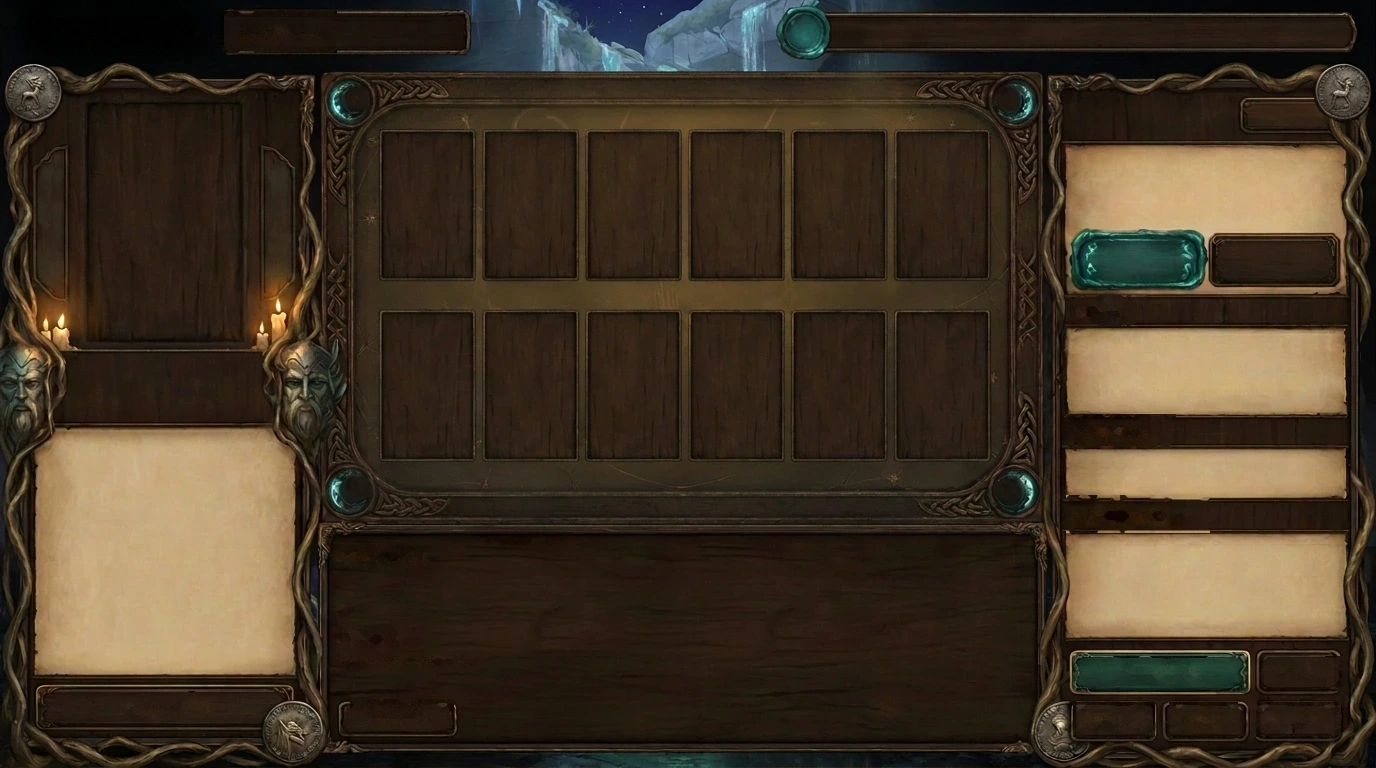
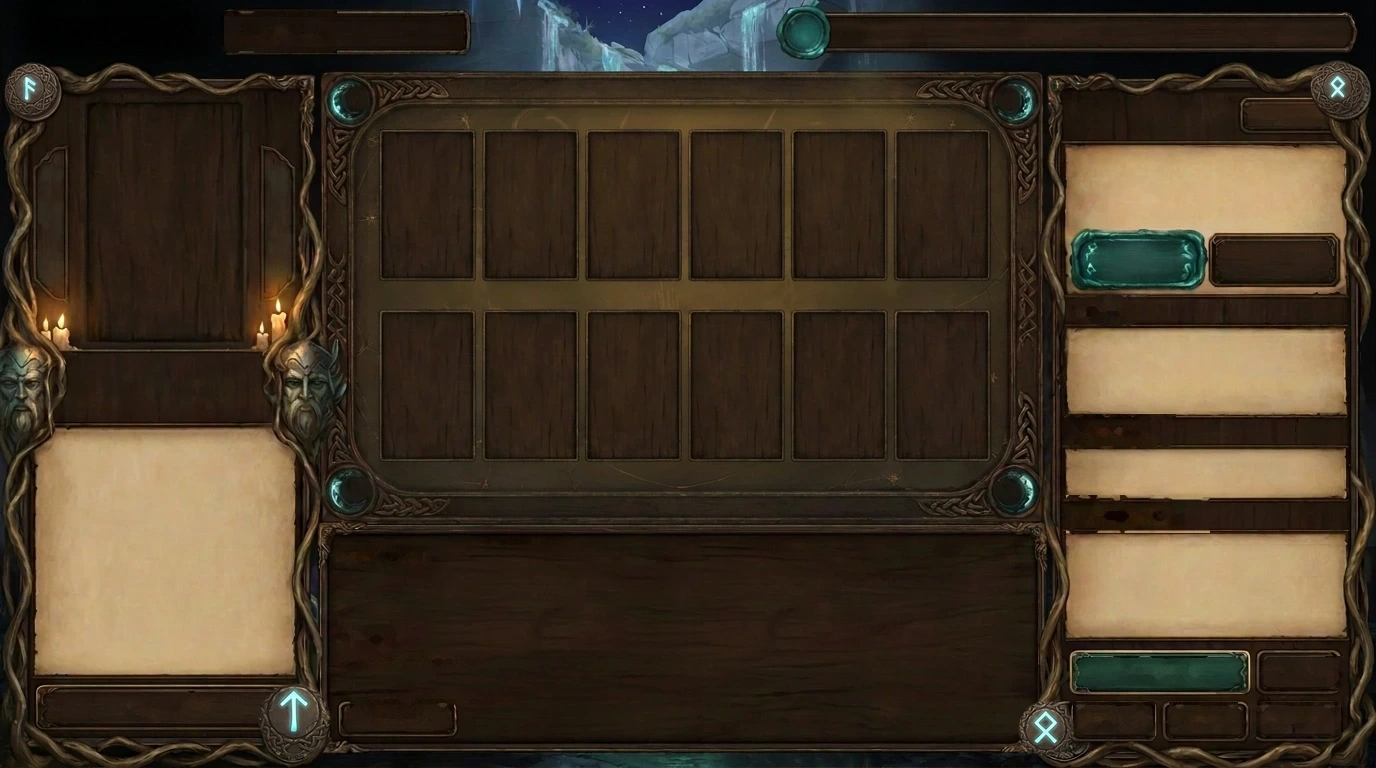
FABLE-096: Settings laid out on the World-Tree night-sky painting (when SettingsScene_tree.webp is installed; the v8 painting otherwise); Deck Forge's Roman coins are now the rune medallions of the Settings painting
Claude-Session: https://claude.ai/code/session_01VNwHMtECA3drs76DyK6jbu

diff --git a/client/scripts/settings/SettingsScene.cs b/client/scripts/settings/SettingsScene.cs
@@ -92,6 +92,7 @@ public partial class SettingsScene : Control
     private void BuildUI()
     {
         var vp = GetViewportRect().Size;
+        if (ScreenSkin.Variant("SettingsScene") == "tree") { BuildTreeUI(vp); return; }
         if (ScreenSkin.Faithful("SettingsScene")) { BuildArtUI(vp); return; }
 
         var bg = new ColorRect { Color = Color.FromHtml("#1A1714"), MouseFilter = MouseFilterEnum.Ignore };
@@ -543,6 +544,115 @@ public partial class SettingsScene : Control
 
         b.Pressed += () => onPress();
         return l;
+    }
+
+    /// <summary>FABLE-096: Settings on the World-Tree night-sky painting Trikzos picked (093): every row on its painted strip.</summary>
+    private void BuildTreeUI(Vector2 vp)
+    {
+        _art = true;
+        var bg = new ColorRect { Color = Color.FromHtml("#1A1714"), MouseFilter = MouseFilterEnum.Ignore };
+        bg.SetAnchorsPreset(LayoutPreset.FullRect);
+        AddChild(bg);
+
+        Label Word(string text, float x0, float y0, float x1, float y1, int px, Color col, HorizontalAlignment align = HorizontalAlignment.Center)
+        {
+            var a = A(vp, x0, y0); var b = A(vp, x1, y1);
+            var l = new Label { Text = text, HorizontalAlignment = align, VerticalAlignment = VerticalAlignment.Center, Position = a, Size = b - a, MouseFilter = MouseFilterEnum.Ignore };
+            l.AddThemeFontOverride("font", ThemeTokens.GetHeaderFont(px)); l.AddThemeFontSizeOverride("font_size", px);
+            l.AddThemeColorOverride("font_color", col);
+            l.AddThemeConstantOverride("outline_size", 5); l.AddThemeColorOverride("font_outline_color", new Color(0.03f, 0.02f, 0.01f, 0.85f));
+            l.SetMeta("skinned", true);
+            AddChild(l);
+            return l;
+        }
+        Word("SETTINGS", 0.407f, 0.023f, 0.592f, 0.091f, 52, Gold);
+        Word("SOUND", 0.186f, 0.212f, 0.488f, 0.252f, 28, GoldBright, HorizontalAlignment.Left);
+        Word("GAMEPLAY", 0.522f, 0.212f, 0.808f, 0.252f, 28, GoldBright, HorizontalAlignment.Left);
+        Word("HELP & STORY", 0.522f, 0.455f, 0.808f, 0.497f, 28, GoldBright, HorizontalAlignment.Left);
+
+        // the sound block: four sliders on the parchment, the mute switch on the wood below, the title music on its strip
+        float[] sliderY = { 0.2956f, 0.3737f, 0.4518f, 0.5300f };
+        _masterSlider = SliderRow(Slot(vp, 0.188f, sliderY[0] - 0.036f, 0.480f, sliderY[0] + 0.036f), "Master");
+        _musicSlider = SliderRow(Slot(vp, 0.188f, sliderY[1] - 0.036f, 0.480f, sliderY[1] + 0.036f), "Music");
+        _sfxSlider = SliderRow(Slot(vp, 0.188f, sliderY[2] - 0.036f, 0.480f, sliderY[2] + 0.036f), "Effects");
+        _ambientSlider = SliderRow(Slot(vp, 0.188f, sliderY[3] - 0.036f, 0.480f, sliderY[3] + 0.036f), "Ambience");
+        _muteSwitch = SwitchRow(Slot(vp, 0.184f, 0.582f, 0.486f, 0.648f), "Mute all sound", null, OnMuteToggled);
+        Label? musicLabel = null;
+        musicLabel = ActionRow(Slot(vp, 0.182f, 0.725f, 0.483f, 0.779f), "Title music:  " + AudioManager.TitleTrackName(AudioManager.TitleTrack), false, () =>
+        {
+            Click();
+            var list = AudioManager.TitleTracks;
+            int i = System.Array.FindIndex(list, t => t.Id == AudioManager.TitleTrack);
+            var next = list[(i + 1) % list.Length];
+            AudioManager.TitleTrack = next.Id;
+            musicLabel!.Text = "Title music:  " + next.Name;
+            GetNodeOrNull<AudioManager>("/root/AudioManager")?.CrossfadeMusic(next.Id, 1.0f);
+        });
+
+        _motionSwitch = SwitchRow(Slot(vp, 0.522f, 0.262f, 0.807f, 0.348f), "Reduce motion", "Fewer flashes, shakes and sweeps", on =>
+        {
+            CampaignContext.Settings.ReduceMotion = on;
+            MarkChanged(true);
+        });
+        Label? styleLabel = null;
+        styleLabel = ActionRow(Slot(vp, 0.522f, 0.362f, 0.807f, 0.419f), "Card style:  " + CardContrast.Names[Math.Clamp(CampaignContext.Settings.CardStyle, 0, 3)], false, () =>
+        {
+            Click();
+            CampaignContext.Settings.CardStyle = (CampaignContext.Settings.CardStyle + 1) % 4;
+            if (styleLabel != null) styleLabel.Text = "Card style:  " + CardContrast.Names[CampaignContext.Settings.CardStyle];
+            MarkChanged(true);
+        });
+        (string, Action)[] help =
+        {
+            ("Symbol key — what every sign in a fight means", () => { Click(); if (_dirty) Persist(); LoadScreen.Go(GetTree(), SymbolKeyScene.ScenePath); }),
+            ("Replay the tutorial", OnReplayTutorial), ("Replay the intro", OnReplayIntro),
+            ("Audio credits", ShowCreditsOverlay), ("Save check — is my progress safe?", ShowSaveCheck),
+        };
+        for (int i = 0; i < help.Length; i++)
+        {
+            float y = 0.547f + i * 0.056f;
+            ActionRow(Slot(vp, 0.524f, y - 0.027f, 0.805f, y + 0.027f), help[i].Item1, false, help[i].Item2);
+        }
+        ActionRow(Slot(vp, 0.527f, 0.822f, 0.806f, 0.881f), "Reset all progress", true, ShowResetConfirm);
+
+        var b0 = A(vp, 0.153f, 0.844f); var b1 = A(vp, 0.292f, 0.902f);
+        _backBtn = Plate("◂  Back", false, b1.X - b0.X, b1.Y - b0.Y);
+        _backBtn.Position = b0;
+        _backBtn.Pressed += () =>
+        {
+            Click();
+            if (_dirty) Persist();
+            LoadScreen.Go(GetTree(), "res://scenes/main/Main.tscn");
+        };
+        AddChild(_backBtn);
+        _backBtn.AddThemeFontSizeOverride("font_size", 32);
+        _backBtn.AddThemeColorOverride("font_color", GoldBright);
+        _backBtn.AddThemeColorOverride("font_hover_color", new Color(1f, 0.9f, 0.6f));
+        StyleBoxFlat Wood(Color bgc, Color edge) => new()
+        {
+            BgColor = bgc, BorderColor = edge, BorderWidthLeft = 2, BorderWidthRight = 2, BorderWidthTop = 2, BorderWidthBottom = 2,
+            CornerRadiusTopLeft = 8, CornerRadiusTopRight = 8, CornerRadiusBottomLeft = 8, CornerRadiusBottomRight = 8,
+        };
+        _backBtn.AddThemeStyleboxOverride("normal", Wood(new Color(0, 0, 0, 0), new Color(0, 0, 0, 0)));   // the painted plaque is the button
+        _backBtn.AddThemeStyleboxOverride("hover", Wood(new Color(1f, 0.86f, 0.45f, 0.12f), new Color(0.90f, 0.74f, 0.42f, 0.6f)));
+        _backBtn.AddThemeStyleboxOverride("pressed", Wood(new Color(0, 0, 0, 0.25f), new Color(0, 0, 0, 0)));
+        _backBtn.SetMeta("skinned", true);
+
+        var s0 = A(vp, 0.300f, 0.844f); var s1 = A(vp, 0.488f, 0.902f);
+        _status = new Label { Text = "", HorizontalAlignment = HorizontalAlignment.Center, VerticalAlignment = VerticalAlignment.Center, AutowrapMode = TextServer.AutowrapMode.WordSmart,
+            Position = s0, Size = s1 - s0, MouseFilter = MouseFilterEnum.Ignore };
+        _status.AddThemeFontOverride("font", ThemeTokens.GetBodyFont(22));
+        _status.AddThemeFontSizeOverride("font_size", 22);
+        _status.AddThemeColorOverride("font_color", Cream);
+        AddChild(_status);
+
+        var v0 = A(vp, 0.520f, 0.888f); var v1 = A(vp, 0.806f, 0.915f);
+        var versionLabel = new Label { HorizontalAlignment = HorizontalAlignment.Right, VerticalAlignment = VerticalAlignment.Center, Position = v0, Size = v1 - v0,
+            MouseFilter = MouseFilterEnum.Ignore, Text = $"Runewake {VersionString()}" };
+        versionLabel.AddThemeFontOverride("font", ThemeTokens.GetBodyFont(17));
+        versionLabel.AddThemeFontSizeOverride("font_size", 17);
+        versionLabel.AddThemeColorOverride("font_color", new Color(0.72f, 0.66f, 0.56f));
+        AddChild(versionLabel);
     }
 
     private void StyleSlider(HSlider s)

diff --git a/client/scripts/ScreenSkin.cs b/client/scripts/ScreenSkin.cs
@@ -68,12 +68,17 @@ public partial class ScreenSkin : Node
     }
 
     /// <summary>True when the scene has its approved painting installed.</summary>
-    public static bool Faithful(string key) => Tex(key + "_ui.webp") != null;
+    public static bool Faithful(string key) => FaithfulTex(key) != null;
+
+    /// <summary>FABLE-096: which approved painting a scene has - "tree" (the World-Tree night-sky Settings), "ui", or "" for none.</summary>
+    public static string Variant(string key) => Tex(key + "_tree.webp") != null ? "tree" : Tex(key + "_ui.webp") != null ? "ui" : "";
+
+    private static Texture2D? FaithfulTex(string key) => Tex(key + "_tree.webp") ?? Tex(key + "_ui.webp");
 
     /// <summary>Where the painting sits on a <paramref name="vp"/>-sized screen.</summary>
     public static Rect2 PlateRect(string key, Vector2 vp)
     {
-        if (System.Array.IndexOf(FitScenes, key) < 0 || Tex(key + "_ui.webp") is not Texture2D t) return new Rect2(Vector2.Zero, vp);
+        if (System.Array.IndexOf(FitScenes, key) < 0 || FaithfulTex(key) is not Texture2D t) return new Rect2(Vector2.Zero, vp);
         var s = t.GetSize(); float k = Mathf.Min(vp.X / s.X, vp.Y / s.Y);
         return new Rect2((vp - s * k) / 2f, s * k);
     }
@@ -89,7 +94,7 @@ public partial class ScreenSkin : Node
     {
         if (!IsInstanceValid(scene) || scene is not Control root) return;
         string key = Key(scene);
-        var plate = Tex(key + "_ui.webp") ?? Tex(key + ".webp");
+        var plate = FaithfulTex(key) ?? Tex(key + ".webp");
         if (plate != null)
         {
             foreach (var c in root.GetChildren())   // the flat / hero background layers the screen starts with
@@ -216,7 +221,7 @@ public partial class ScreenSkin : Node
     private static Image? PlateImage(string key)
     {
         if (Pixels.TryGetValue(key, out var img)) return img;
-        img = Tex(key + "_ui.webp")?.GetImage();
+        img = FaithfulTex(key)?.GetImage();
         if (img != null && img.IsCompressed()) img.Decompress();
         Pixels[key] = img;
         return img;

diff --git a/tools/deckforge_medallions_096.py b/tools/deckforge_medallions_096.py
@@ -1,0 +1,21 @@
+# FABLE-096: Deck Forge's four silver Roman coins become the rune medallions of the Settings painting (the same ones Daily Rewards wears)
+import sys, numpy as np
+from PIL import Image
+src, settings, out = sys.argv[1:4]
+D = np.array(Image.open(src).convert('RGB')).astype(np.float32)
+S = Image.open(settings).convert('RGB')
+def medallion(cx, cy, r):
+    return S.crop((cx - r, cy - r, cx + r, cy + r))
+# the Settings medallions (centre, outer radius) and the coins they replace (centre, radius)
+meds = [medallion(70, 61, 56), medallion(1309, 60, 56), medallion(79, 703, 56), medallion(1297, 691, 56)]
+coins = [((32, 90), 28), ((1337, 88), 28), ((294, 719), 36), ((1046, 728), 28)]
+for m, ((cx, cy), r) in zip(meds, coins):
+    R = r + 2
+    patch = np.array(m.resize((2 * R, 2 * R), Image.LANCZOS)).astype(np.float32)
+    yy, xx = np.mgrid[-R:R, -R:R]
+    d = np.sqrt(xx ** 2 + yy ** 2)
+    a = np.clip((R - 1.5 - d) / 2.5, 0, 1)[..., None]
+    y0, x0 = cy - R, cx - R
+    reg = D[y0:y0 + 2 * R, x0:x0 + 2 * R]
+    D[y0:y0 + 2 * R, x0:x0 + 2 * R] = reg * (1 - a) + patch * a
+Image.fromarray(np.clip(D, 0, 255).astype(np.uint8)).save(out)
